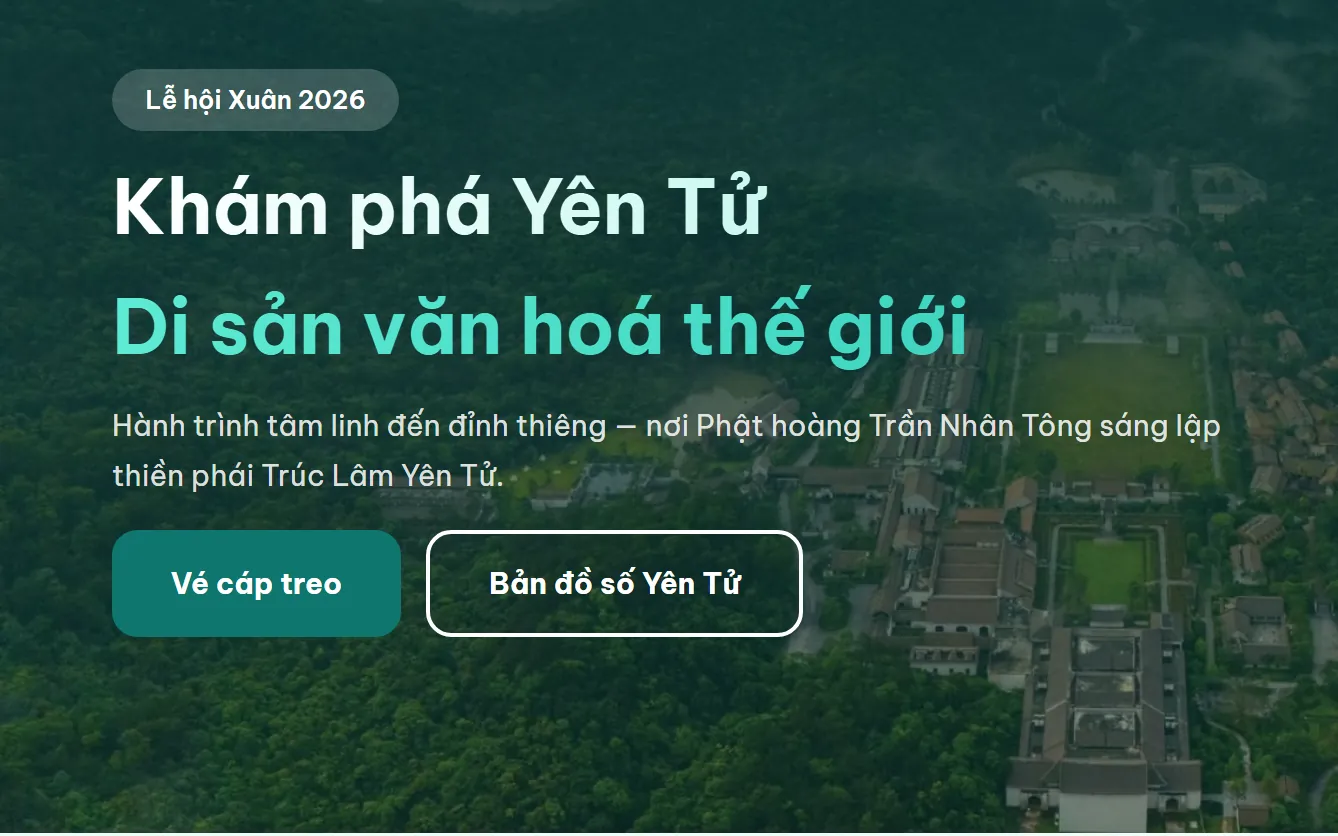
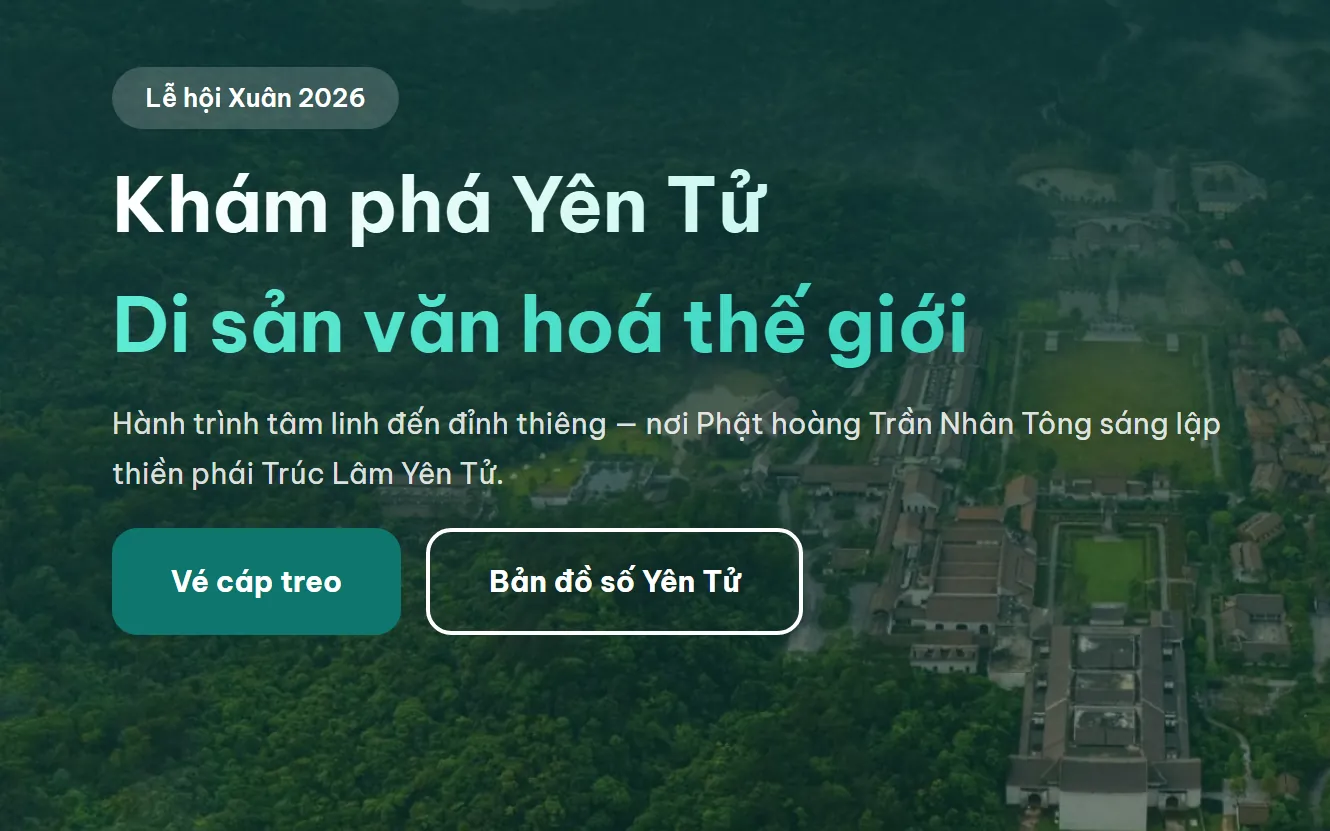
Anh maket hien tron ven, o QR om sat ma, xoa ke trang day anh Yen Tu
Ba viec cong ty chi ra, deu do bang so chu khong ang chung qua anh nen.

1. KE TRANG O DAY ANH YEN TU.
   Cat den y=1175 la lay du ba hang cuoi cua nen mint muc "Dich vu du khach"
   ben duoi (do sang 246 so voi 45 cua rung) -> hien ra thanh mot vach trang
   mong o day anh. Cat lai den 1172, khung 16:10 tinh lai thanh 1330x831.

2. ANH HIEN TRON VEN, khong cat lay mot dai ngang.
   O anh dang bi ep h-40/sm:h-52 roi object-cover object-top, tuc chi thay 45%
   phia tren. Do that: 740x208. Nhin mot dai mong thi khong hinh dung duoc san
   pham — cong ty noi dung, phai cho anh hien du moi "truc dien va tong quan".
   Doi sang aspect-[16/10]: trung dung ti le moi anh trong public/anh/ va trung
   voi the o muc Du an, nen khong cat mat gi. Do lai: 740x463.
   Bo luon duoc rang buoc rat rac roi la phai canh anh sao cho vet cat 45% roi
   vao khoang trong giua hai dong chu.

3. O TRANG BOC MA QR THUA MOT DOAN BEN PHAI.
   Do getBoundingClientRect: hop 137x108 trong khi ma QR chi 96x96 va nam SAT
   TRAI -> thua 35px trang don het sang phai. Nguyen nhan: div do la phan tu
   khoi nen tu gian bang be ngang dong "Quet ma de trai nghiem" (137px). Khong
   sua duoc bang text-center vi Tailwind dat img{display:block}, ma can giua
   bang text-align chi an voi phan tu inline.
   Sua bang mx-auto w-fit -> hop 108x108 vuong, thua ben phai con 6px dung
   bang le ben trai.

KEM THEO — CAN LAI COT TRAI. Anh cao len 463 keo the tu 591 len 845px, trong
[…]

diff --git a/src/components/ui/SlideSanPham.jsx b/src/components/ui/SlideSanPham.jsx
@@ -152,6 +152,16 @@ export default function SlideSanPham({ danhSach }) {
                 thì mỗi lần đổi slide là cả thẻ trắng đổi màu theo. Rê chuột
                 thì lớp phủ tan hẳn.
 
+                ⚠ 19/08/2026 — HIỆN TRỌN VẸN, không cắt lấy một dải ngang.
+                Bản trước ép ô ảnh về h-40/sm:h-52 rồi object-cover object-top,
+                tức là chỉ thấy khoảng 45% phía trên của ảnh. Công ty góp ý
+                đúng: nhìn một dải mỏng thì không hình dung được sản phẩm, phải
+                cho ảnh hiện đủ mới "trực diện và tổng quan". Nay dùng
+                aspect-[16/10] — trùng đúng tỉ lệ mọi ảnh trong public/anh/ và
+                trùng với thẻ ở mục Dự án, nên không cắt mất gì.
+                Kèm theo: bỏ luôn được cái ràng buộc rắc rối là phải canh ảnh
+                sao cho vết cắt 45% rơi vào khoảng trống giữa hai dòng chữ.
+
                 ⚠ 19/08/2026 — bản đầu để opacity-60, chụp màn hình 1440px
                 lại thì ảnh bạc trắng gần như không nhìn ra sản phẩm gì. Góp ý
                 của công ty là "maket mờ ĐỂ NHÌN đại diện từng sản phẩm": mờ
@@ -164,7 +174,7 @@ export default function SlideSanPham({ danhSach }) {
                   src={s.anh}
                   alt={`Giao diện ${s.title}`}
                   loading="lazy"
-                  className="h-40 w-full object-cover object-top opacity-90 transition-opacity duration-500 group-hover/anh:opacity-100 sm:h-52"
+                  className="aspect-[16/10] w-full object-cover opacity-90 transition-opacity duration-500 group-hover/anh:opacity-100"
                 />
                 <span
                   className="pointer-events-none absolute inset-0 bg-brand/[0.07] transition-opacity duration-500 group-hover/anh:opacity-0"
@@ -218,7 +228,14 @@ export default function SlideSanPham({ danhSach }) {
         {/* Mã QR chỉ trên máy tính — xem lý do trong hooks/useManHinhRong.js */}
         {rong && sp.lienKet && (
           <div className="shrink-0 text-center">
-            <div className="rounded-xl bg-white p-1.5">
+            {/* mx-auto w-fit: ô trắng phải ÔM SÁT mã QR.
+                Không có nó thì đây là một div khối, tự giãn bằng bề ngang của
+                dòng "Quét mã để trải nghiệm" (137px) trong khi mã chỉ 96px —
+                thừa 35px trắng dồn hết sang PHẢI, nhìn lệch hẳn. Không sửa được
+                bằng text-center vì Tailwind đặt img{display:block}, mà căn giữa
+                bằng text-align chỉ ăn với phần tử inline. Đo được bằng
+                getBoundingClientRect: hộp 137×108, ảnh QR 96×96 nằm sát trái. */}
+            <div className="mx-auto w-fit rounded-xl bg-white p-1.5">
               <MaQR
                 noiDung={sp.lienKet}
                 alt={`Mã QR mở ${sp.title}`}

diff --git a/src/sections/Hero.jsx b/src/sections/Hero.jsx
@@ -312,7 +312,10 @@ export default function Hero() {
               `truncate` mới làm đúng việc của nó là cắt chữ kèm dấu "…". */}
           <div className="mt-3 grid grid-cols-[minmax(0,1fr)] gap-3 lg:grid-cols-[minmax(0,23rem)_1fr]">
             {/* ---------- Cột trái: danh mục tự chọn đường đi ---------- */}
-            <ul className="space-y-0.5">
+            {/* Căn giữa theo chiều dọc: ô ảnh bên phải nay hiện trọn vẹn tỉ lệ
+                16:10 nên thẻ cao 845px, trong khi bảy hàng này chỉ chiếm 476px.
+                Neo lên đỉnh thì thừa gần 370px trống dồn hết xuống đáy trái. */}
+            <ul className="flex h-full flex-col justify-center space-y-0.5">
               {MUC.map((m) => (
                 <DongMuc key={m.nhan} muc={m} />
               ))}
